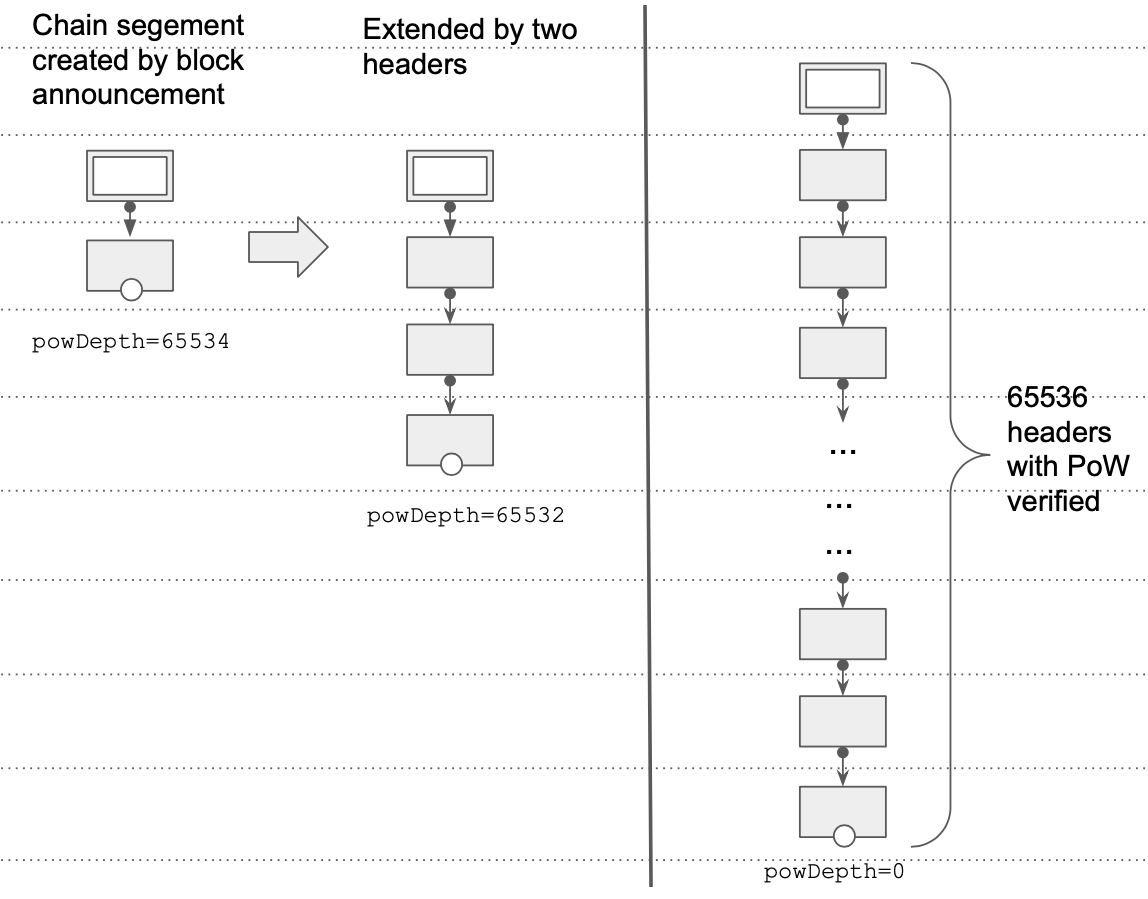
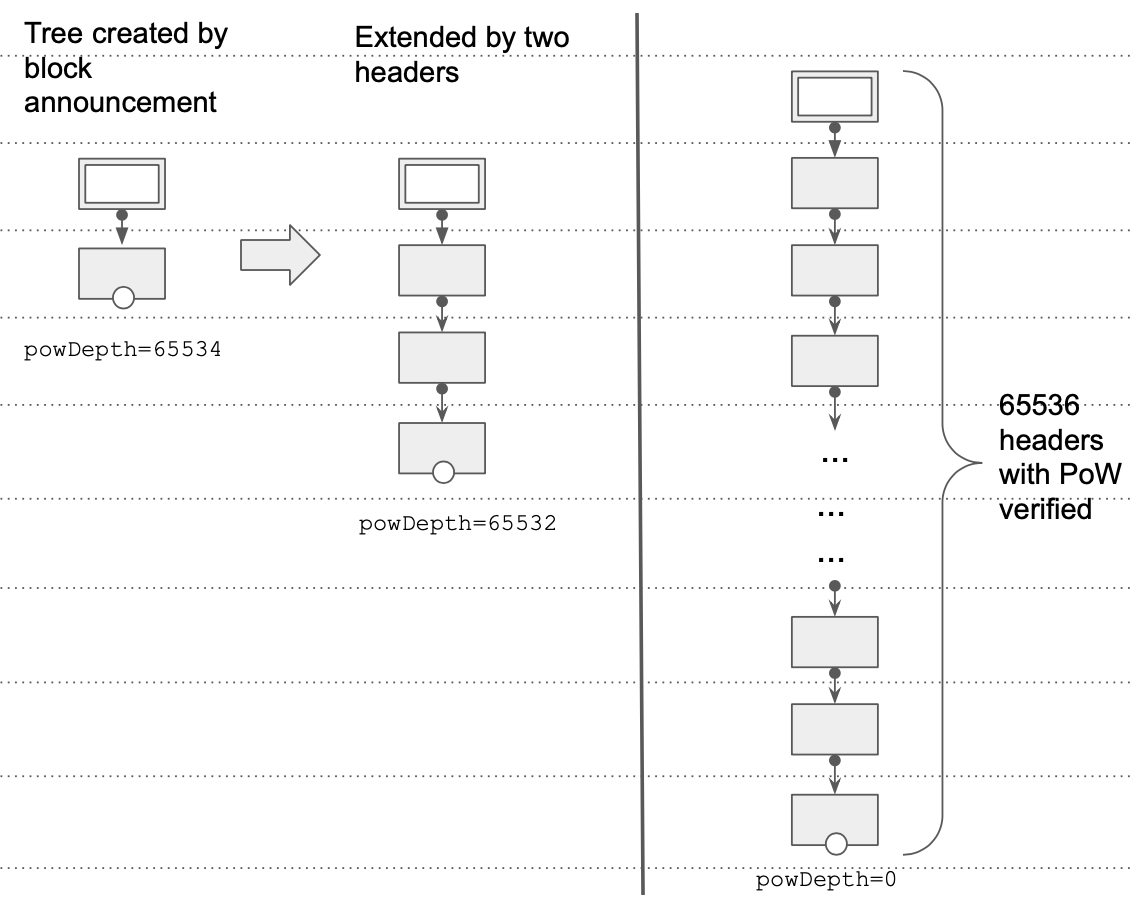
Start changing the terminology

diff --git a/docs/programmers_guide/header_download.md b/docs/programmers_guide/header_download.md
@@ -35,101 +35,111 @@ it is a part of a header chain that leads to a wrong genesis block. Another exam
 State Root hash.
 Newly found bad block headers need to be immediately written to the database, because the cost of discovering their invalidity again needs to be avoided.
 
-### Chain segment (anchors)
+### Tree (anchors)
 
-At any point in time, the headers that have been downloaded and placed into the buffer or into one of the files, can be viewed as a collection of chain
-segments like this:
+At any point in time, the headers that have been downloaded and placed into the buffer or into one of the files, can be viewed as a collection of trees like this:
 
 ![header_download_1](header_download_1.png)
 
-The reason why we may need to maintain multiple chain segments instead of just one, is this potential optimisation. If we have some hindsight knowledge
+The reason why we may need to maintain multiple trees instead of just one, is this potential optimisation. If we have some hindsight knowledge
 about the header chain that is being downloaded, we can hard-code the hashes of block headers at some intermediate block heights. For example, at every
 height which is multiple of 4096. Assuming that the maximum height is on the order of tens of millions, we only need to hard-code around a thousand
 32-byte values (block hash), together with total difficulty number (maximum 32 byte), which is trivial. Having these hard-coded anchors, we can
-download different chain segments from different peers to better utilise the network connectivity.
-Each segment has exactly one anchor. Every anchor maintains an integer attribute `powDepth`, meaning how "deep" after this anchor the ancestral block headers
+download different trees from different peers to better utilise the network connectivity. Each tree has exactly one anchor (root).
+Every anchor maintains an integer attribute `powDepth`, meaning how "deep" after this anchor the ancestral block headers
 need their Proof Of Work verified. Value `0` means that there is no need to verify Proof Of Work on any ancestral block headers. All hard-coded anchors come
 with `powDepth=0`. Other anchors (created by announced blocks or block hashes), start with `powDepth` equal to some configured value (for example, `65536`,
-which is equivalent to rought 16 days of block time), and every time the chain segement is extended by moving its anchor "down", the `powDepth` is also
+which is equivalent to rought 16 days of block time), and every time the tree is extended by moving its anchor "down", the `powDepth` is also
 decreased by the height of the extension.
 
 ![header_download_2](header_download_2.png)
 
-Eventually, the growing chain segement can reach the configured size, at which point the `powDepth` attribute of its anchor will drop to `0`, and no
-further Proof Of Work verification on the ancestors will be performed. Another possibility is that the anchor will match with a tip of another chain
-segment, the chain segments will merge, and the anchor simply disappears, superseeded by the anchor of another chain segment.
-There is also a potential optimisation, whereby the extension of a chain segment from the tip shall also decrease the `powDepth` value of its anchor.
+Eventually, the growing tree can reach the configured depth, at which point the `powDepth` attribute of its anchor will drop to `0`, and no
+further Proof Of Work verification on the ancestors will be performed. Another possibility is that the anchor will match with a tip of another tree,
+the trees will merge, and the anchor simply disappears, superseeded by the anchor of another tree.
+There is also a potential optimisation, whereby the extension of a tree from the tip shall also decrease the `powDepth` value of its anchor.
 However, we currently leave this for future editions.
 Another attribute of an anchor is `totalDifficulty`. Total difficulty is the sum of all difficulties of headers starting from this anchor, all the
-way to the genesis, including the anchor itself. The total difficulty can only be obtained for the segments that in some ways originated from a
+way to the genesis, including the anchor itself. The total difficulty can only be obtained for the trees that in some ways originated from a
 hard-coded anchor. The genesis is also considered a hard-coded anchor. The anchors created from block announcements or block hash
 announcements, have their `totalDifficulty` equal to `0`, meaning that it is currently impossible to calculate the total difficulty given the available information.
-Since any chain segment contains exactly one anchor, the anchor hash can be conveniently used as an identifier for the chain segment. Other important parts
-of a chain segments are its tips. Therefore, an anchor has another attribute, `tips`, which is a collection of block hashes currently belonging to the
-chain segment's tips. This collection allows efficiently iterating over the tips of a certain chain segment, for example, to update the total
+Since any tree contains exactly one anchor, the anchor hash can be conveniently used as an identifier for the tree. Other important parts
+of a tree are its tips. Therefore, an anchor has another attribute, `tips`, which is a collection of block hashes currently belonging to the
+tree's tips. This collection allows efficiently iterating over the tips of a certain tree, for example, to update the total
 difficulties of the tips when the anchor changes.
-When a chain segment gets appended to an existing anchor, there are a few conditions that need to be met. Firstly, the `parentHash` of the anchor header
-needs to match the hash of the attaching tip. Secondly, the difficulty calculation formula for the anchor yields the anchor's difficulty. In Ethereum, difficulty of a child block header is calculated from various attributes of that child block header (`timestamp`) and the parent block header
-(`timestamp`, `difficulty`, `blockHeight`, `uncleHash`). Therefore, anchors need to have two other attributes, `difficulty` and `timestamp`, so that the correctness of the calculating `difficulty` from its parent header can be verified.
-To conclude, the anchors data structure (which is a part of "the chain segments" data structure) is a mapping of anchor parentHashes (not hashes of
-anchors themsevles) to a collection of objects with attributes `powDepth`, `totalDifficulty`, `tips`, `difficulty`, and `timestamp`. We are talking
+When a new header gets appended to an existing anchor, there are a few conditions that need to be met. Firstly, the `parentHash` of the anchor header
+needs to match the hash of the attaching header. Secondly, the difficulty calculation formula for the anchor yields the anchor's difficulty. In Ethereum, difficulty of a child block header is calculated from various attributes of that child block header (`timestamp`) and the parent block header
+(`timestamp`, `difficulty`, `blockHeight`, `uncleHash`). Therefore, anchors need to have two other attributes, `difficulty` and `timestamp`, so that the correctness of the calculating `difficulty` from its parent header can be verified. For the purpose of further verification (to make sure that
+the parent and child block heights agree), anchors have `blockHeight` attribute.
+To conclude, the anchors data structure is a mapping of anchor parentHashes (not hashes of
+anchors themselves) to a collection of objects with attributes `powDepth`, `totalDifficulty`, `tips`, `difficulty`, `blockHeight`, `hash`, 
+and `timestamp`. We are talking
 about collection of objects rather than objects because there may be multiple anchor headers having the same value of Parent Hash.
 
-### Chain segment (tips)
+### Tree (tips)
 
-A chain segment can contain any number of headers, all connected to one another via the value of their `ParentHash` attribute, and, ultimately,
-such tree of headers is connected to the anchor of that chain segment. Some headers in a chain segment are selected as the tips of that chain segment.
-Description of how the headers are the headers are selected to be the tips requires the definition of cumulative difficulty. Every tip (once selected)
+A tree can contain any number of headers, all connected to one another via the value of their `ParentHash` attribute, and, ultimately,
+such tree of headers is connected to the anchor (root) of that tree. Some headers in a tree are selected as the tips of that tree.
+Description of how the headers are selected to be the tips requires the definition of cumulative difficulty. Every tip (once selected)
 has some attributes associated with it. Firstly, the `anchorParent` attribute, which is the `ParentHash` of the anchor that this tip is (transitively)
 connected to (in other words, the tip is in the "progeny", or in the "decendants" of that anchor). The `anchorParent` attribute of a tip can be viewed
-as the inverse of the anchor's `tips` attribute, and both need to be updated at the same time, when the anchor or one of the tips of a chain segment changes.
+as the inverse of the anchor's `tips` attribute, and both need to be updated at the same time, when the anchor or one of the tips of a tree changes.
 Secondly, the `cumulativeDifficulty` attribute of a tip stores the sum of difficulties of all headers starting from the tip all the way down
 (and including) the anchor. The cumulative difficulty, combined with the anchor's `totalDifficulty` (minus the the `difficulty` of the anchor so
 that it is not counted twice), provides a way of calculating the total difficulty of a tip.
-A subset of headers in a chain segment is selected to be the tips of that segment. The necessary (bit not sufficient) requirement for a header
-to be a tip is that it has cumulative difficulty no lower than cumulative difficulty of any non-tip in that segment. In other words, tips are
-the headers wotj the largest cumulative difficulties in their chain segment.
-To ensure resilience against potential resource exhaustion due to faults or deliberate attacks, we would liketo limit the number of tips being
-tracked at any given time, and, by extension, the number of chain segments being maintained. For this purpose, we place almost all currently
-tracked tips from all chain segments into a sorted mapping, sorted by cumulative difficulty. The tips whose hashes coincide with any of the hard-coded
+A subset of headers in a tree is selected to be the tips of that segment. The necessary (bit not sufficient) requirement for a header
+to be a tip is that it has cumulative difficulty no lower than cumulative difficulty of any non-tip in that tree. In other words, tips are
+the headers with the largest cumulative difficulties in their trees.
+To ensure resilience against potential resource exhaustion due to faults or deliberate attacks, we would like to limit the number of tips being
+tracked at any given time, and, by extension, the number of tree being maintained. For this purpose, we place almost all currently
+tracked tips from all trees into a sorted mapping, sorted by cumulative difficulty. The tips whose hashes coincide with any of the hard-coded
 anchors, are exempt from the limiting, and therefore, are not placed into the sorted mapping.
 This sorted mapping is used whenever the number of tracked tips is about to exceed the (configurable) limit. Entries with the lowest cumulative
 difficulties are removed from the mapping, as well as from the tips data structure.
-The chain segments that are created from the hard-coded anchors, are only allowed to be extended on the anchor's side, therefore their tips need
+The trees that are created from the hard-coded anchors, are only allowed to be extended on the anchor's side, therefore their tips need
 to be marked as non-prependable. This is the role of another boolean attribute of a tip, `noPrepend`.
-To conclude, the tips data structure (which is a part of "the chain segments" data structure) is a mapping of tip hashes to objects with the attributes
+To conclude, the tips data structure is a mapping of tip hashes to objects with the attributes
 `anchorParent`, `cumulativeDifficulty`, `timestamp`, `difficulty`, `blockHeight`, `uncleHash`,  `noPrepend`.
 We will call the sorted mapping of cumulative difficulties to tip hashes "the tip limited data structure.
 
-### Working chain segments
-The anchors, the tips, and the tip limiter describe a collection of chain segements. We will this collection "working chain segments" for the
+### Working trees
+The anchors, the tips, and the tip limiter describe a collection of trees. We will this collection "working trees" for the
 future reference in the description of the algorithms.
+
+### Chain segment
+Chain segment, like a tree, is also a collection of headers, connected to one another. However, it is a simpler collection than a tree,
+without any branching. A tree can be divided into segments like this:
+
+![header_download_3](header_download_3.png)
+
+When such decomposition is performed, the resulting segments are usually ordered in a specific (partial) order. If any segment is referenced
+by another segment, then the former needs to come before the latter in the ordering, as shown in the illustration.
 
 ## Principles and invariants
 
 ### When a new anchor can be created
 
-A new chain segment can only be introduced in the following 3 ways and according to specified conditions:
+A new tree can only be introduced in the following 3 ways and according to specified conditions:
 1. Hard-coded anchors
-2. Anchors recovered from the files during the restrt after an interruption, a crash, or a powerdown
+2. Anchors recovered from the files during the restart after an interruption, a crash, or a powerdown
 3. Block announced by a peer, or a block header received from a peer, if the Proof Of Work is valid, and if the timestamp of such block or
 block header is withing a configured range from the current time measured locally. In other words, with a timestamp not too far in the past
 and not too far in the future.
 
 The condition on the block header timestamp in the point (3) is required to prevent a potential malicious peer from being able to reuse the
-same pre-generated fake chain segements again and again over a long period of time. The tips of such pre-generated fake chain segments would
+same pre-generated fake chain segements again and again over a long period of time. The tips of such pre-generated fake trees would
 need large cumulative difficulty to be able to force genuine tips from the tip limiter. But even if they are generated at a cost of significant
 work (to pass Proof Of Work verification), they will only be useful for a limited period of time. According to the limitation in the point (3),
 we will refuse to create a new anchor and therefore ignore any of its ancestral headers (see the next principle below).
 
 ### When a chain segment can be processed
 
-A chain segment constructed from a message received from a peer, can only be appended to an existing anchor of some "working chain segment.
-In other words, we would only allow appending new ancestral chain segements to existing children (or "progeny").
-Part of the new chain segment that ends up "above" the attachment point is discarded, as shown on the diagram below. If there is no anchor
-to which any header in the new segment can be appended, the entire new chain segment is discarded.
+A chain segment constructed from a message received from a peer, can be appended to an existing anchor of some working tree.
+In other words, it is appending new ancestral chain segements to existing children (or "progeny").
+Part of the chain segment that ends up "above" the attachment point is discarded, as shown on the diagram below. If there is no anchor
+to which any header in the new segment can be appended, the entire new segment is discarded.
 
-![header_download_3](header_download_3.png)
+![header_download_4](header_download_4.png)
 
 Note that this restriction is applied even before any Proof Of Work verification is performed on the received headers. The anchor to which the
 received chain segment is getting appended, determines whether, and for how many headers in the segment the Proof Of Work verificatin needs to
@@ -142,7 +152,7 @@ be done (`powDepth` attribute). As mentioned previously, the new anchor's attrib
 Currently, the algorithms are just listed without much explanation. Detailed explanation will be added after Proof Of Concept.
 
 ### Handle BlockHeadersMsg
-**Input**: BlockHeadersMsg + peer handle. **Output**: chain segment or penalty for the peer handle
+**Input**: BlockHeadersMsg + peer handle. **Output**: collection of chain segments, or penalty for the peer handle
 Collection of block headers in the a `BlockHeadersMsg` message can be viewed as a specific reprentation of a "rooted forest". In this
 representation each header specifies a vertex and a potential outgoing edge (via `ParentHash` attribute, it if points to another header
 in the message). Vertices without outgoing edges (because `ParentHash` points to a header which is not contained in the message) are roots,
